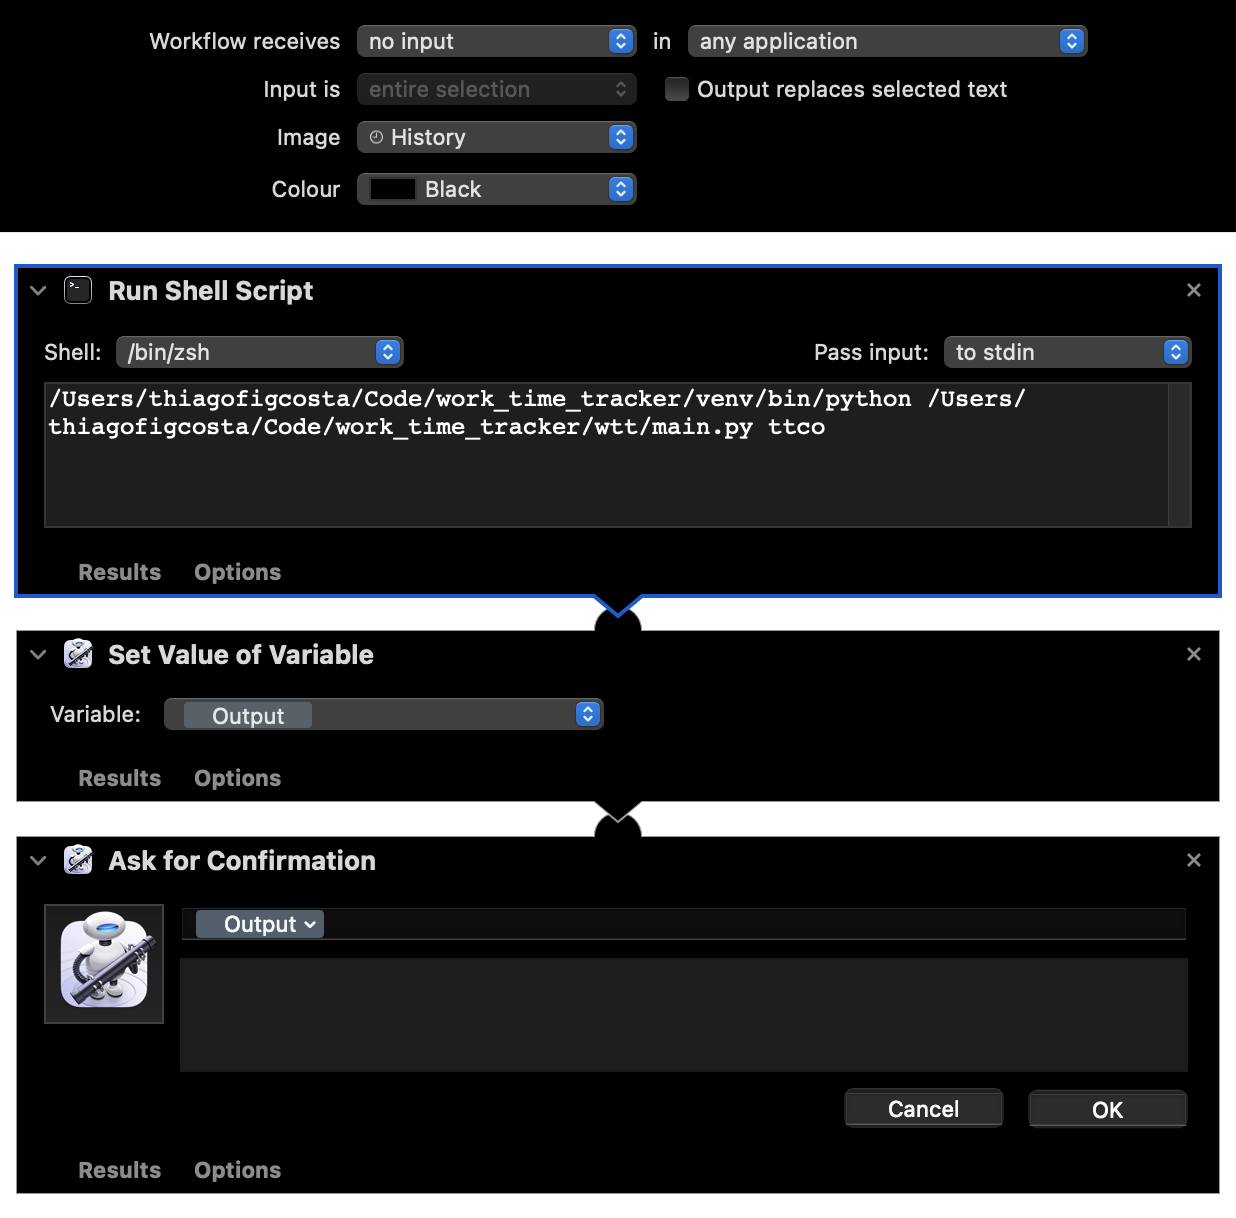
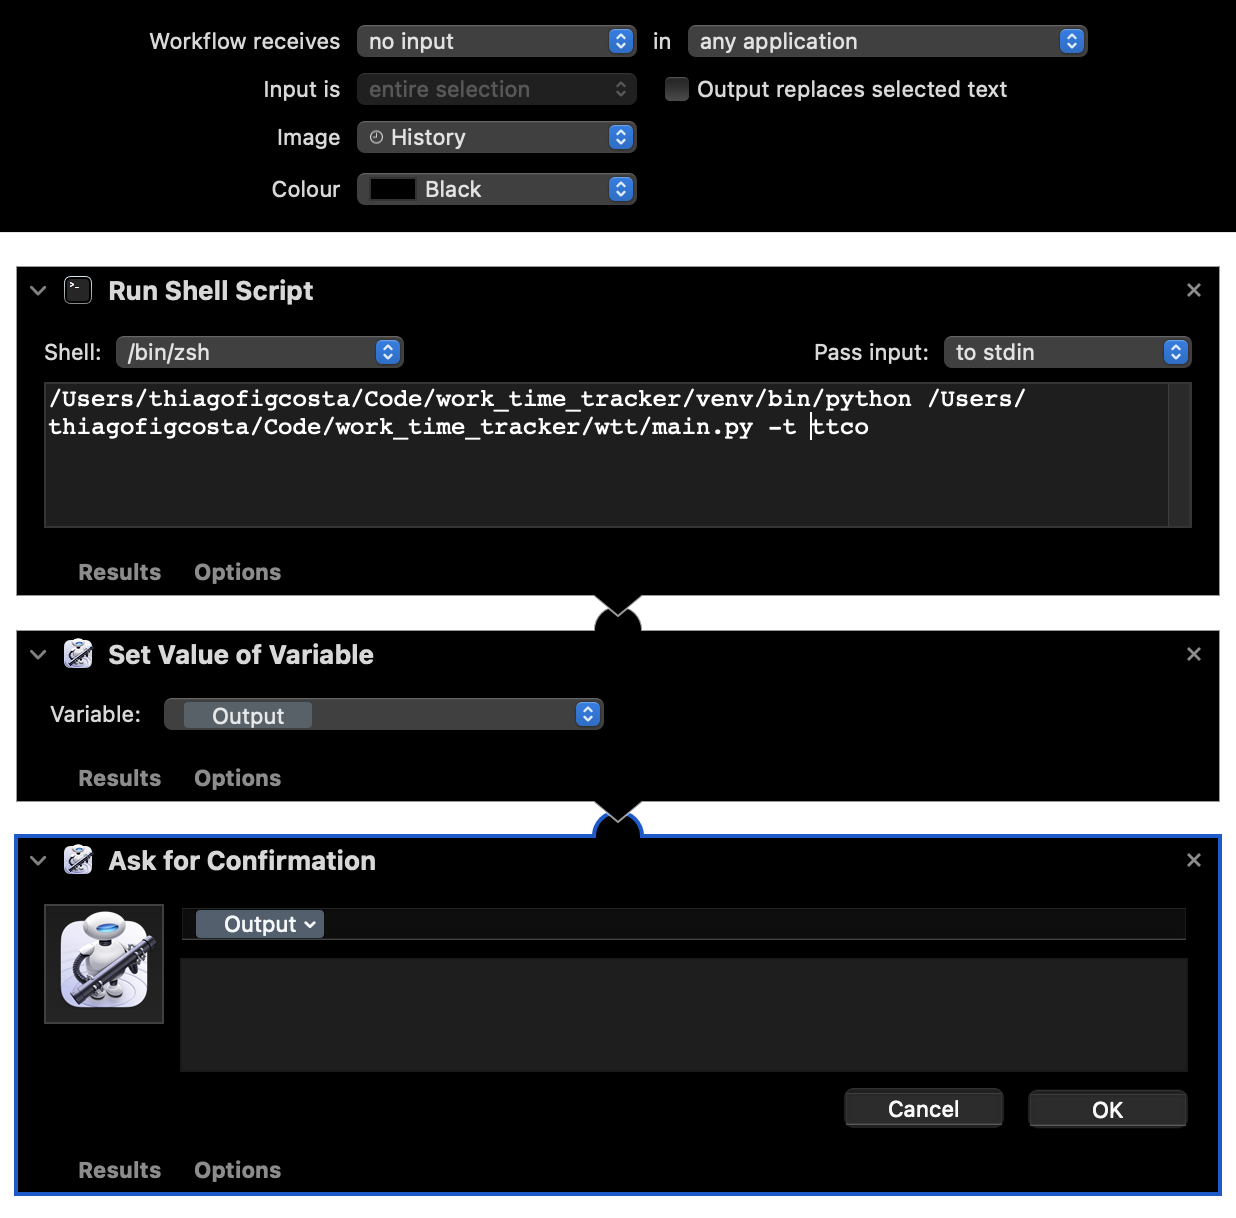
feat: removing tabs on touch bard and lunch time

diff --git a/wtt/services/time_card.py b/wtt/services/time_card.py
@@ -36,7 +36,7 @@ def convert_time_cards_to_minutes(time_cards):
     return time_cards_in_min
 
 
-def print_today_report(profile, from_auto_run=False):
+def print_today_report(profile, from_auto_run=False, tabs=False):
     if from_auto_run:
         time.sleep(0.3)
     office_hours = profile.daily_office_hours
@@ -56,18 +56,34 @@ def print_today_report(profile, from_auto_run=False):
         if office_hours == 0:
             has_holiday = today_holiday is not None
             report = get_report_for_non_working_day(is_work_day, has_holiday, has_recorded_absence)
+            if not tabs:
+                report = remove_tabs_from_multiline_string(report)
             print(report)
             return
 
     worked_minutes = get_worked_time_from_any_cards(time_cards, profile.auto_insert_lunch_time)
-    report = get_default_report(office_hours, profile.max_allowed_extra_hours, worked_minutes, len(time_cards))
+    break_minutes = 0
+    if len(time_cards) == 2:
+        break_minutes = get_worked_time_from_any_cards([time_cards[-1]])
+    report = get_default_report(office_hours, profile.max_allowed_extra_hours, worked_minutes, break_minutes,
+                                len(time_cards))
     if from_auto_run:
         report_array = report.split('\n', 2)
         if len(report_array) == 3:
             for i in range(len(report_array)):
                 report_array[i] = report_array[i].lstrip('\t')
             report = report_array[2]
+    if not tabs:
+        report = remove_tabs_from_multiline_string(report)
     print(report)
+
+
+def remove_tabs_from_multiline_string(string):
+    string_array = string.split('\n')
+    for i in range(len(string_array)):
+        string_array[i] = string_array[i].lstrip('\t')
+    string = '\n'.join(string_array)
+    return string
 
 
 def get_worked_time_from_any_cards(time_cards, auto_insert_lunch_time=0):
@@ -148,7 +164,7 @@ def get_report_for_non_working_day(is_work_day, has_holiday, has_recorded_absenc
     return report
 
 
-def get_default_report(daily_office_hours, max_extra_hours, worked_minutes, amount_cards):
+def get_default_report(daily_office_hours, max_extra_hours, worked_minutes, break_minutes, amount_cards):
     local_time = date_utils.get_now()
 
     missing_minutes_regular_shift = daily_office_hours * 60 - worked_minutes
@@ -157,7 +173,10 @@ def get_default_report(daily_office_hours, max_extra_hours, worked_minutes, amou
     clock_out_at_regular_shift = date_utils.add_minutes_to_datetime(local_time, missing_minutes_regular_shift)
     clock_out_at_extra_shift = date_utils.add_minutes_to_datetime(local_time, missing_minutes_extra_shift)
 
-    worked_time_str = f'Worked: {time_utils.timestamp_to_human_readable_str(worked_minutes, minutes=True)} ({amount_cards} time cards)'
+    worked_time_str = f'Worked: {time_utils.timestamp_to_human_readable_str(worked_minutes, minutes=True)}'
+    if break_minutes > 0:
+        worked_time_str += f', Current Lunch: {time_utils.timestamp_to_human_readable_str(break_minutes, minutes=True)}'
+    worked_time_str += f' ({amount_cards} time cards)'
     if worked_minutes == 0:
         worked_time_str = 'You haven\'t started to work yet'
 
@@ -175,12 +194,14 @@ def get_default_report(daily_office_hours, max_extra_hours, worked_minutes, amou
     return report
 
 
-def print_extra_hours_balance_in_minutes(profile, details=False):
+def print_extra_hours_balance_in_minutes(profile, details=False, tabs=True):
     daily_details_dict = None
     if details:
         daily_details_dict = {}
     bal = get_extra_hours_balance_in_minutes(profile, daily_details_dict=daily_details_dict)
     report = get_report_from_extra_hours_balance_in_minutes(bal, daily_details_dict)
+    if not tabs:
+        report = remove_tabs_from_multiline_string(report)
     print(report)
 
 
@@ -394,10 +415,12 @@ def print_work_day_status_report_if_recent_error(profile):
         print('+++++')
 
 
-def print_work_day_status_report(profile, filter_level=None):
+def print_work_day_status_report(profile, filter_level=None, tabs=False):
     work_day_status = get_work_day_status(profile)
     filtered = filter_work_day_status(work_day_status, filter_out_below=filter_level)
     report = get_report_from_work_day_status(filtered)
+    if not tabs:
+        report = remove_tabs_from_multiline_string(report)
     print(report)
 
 

diff --git a/wtt/main.py b/wtt/main.py
@@ -24,6 +24,8 @@ def main(argv):
                         help='Automatic display of the extra hours balance')
     parser.add_argument('--auto-ttco', required=False, action='store_false', default=True,
                         help='Automatic display time to clock out after clocking in or out')
+    parser.add_argument('-t', '--no-tabs-on-report', dest='no_tabs', required=False, action='store_false', default=True,
+                        help='Remove tabs from string reports')
 
     subparsers = parser.add_subparsers(dest='cmd', help='sub-commands help')
     clock_parser = subparsers.add_parser('clock', help='Clocks in or out from work')
@@ -59,9 +61,9 @@ def main(argv):
             time_card_service.clock_in_out(get_current_profile())
             if args.auto_ttco:
                 print('---')
-                time_card_service.print_today_report(get_current_profile(), from_auto_run=True)
+                time_card_service.print_today_report(get_current_profile(), from_auto_run=True, tabs=not args.no_tabs)
         elif cmd == 'ttco':
-            time_card_service.print_today_report(get_current_profile())
+            time_card_service.print_today_report(get_current_profile(), tabs=not args.no_tabs)
         elif cmd == 'ehbal':
             time_card_service.print_extra_hours_balance_in_minutes(get_current_profile(), details=True)
         elif cmd == 'stc':

diff --git a/README.md b/README.md
@@ -3,11 +3,12 @@
 ### Terminal
 
 You can create an alias to use this tool more easily on terminal, e.g.
+
 ```shell
 alias wtt='/Users/thiagofigcosta/Code/work_time_tracker/venv/bin/python /Users/thiagofigcosta/Code/work_time_tracker/wtt/main.py'
 ```
-Change it for your local path, to add the alias permanently add this command to `~/.bashrc` or `~/.zshrc`
 
+Change it for your local path, to add the alias permanently add this command to `~/.bashrc` or `~/.zshrc`
 
 ### Touch bar extensions
 
